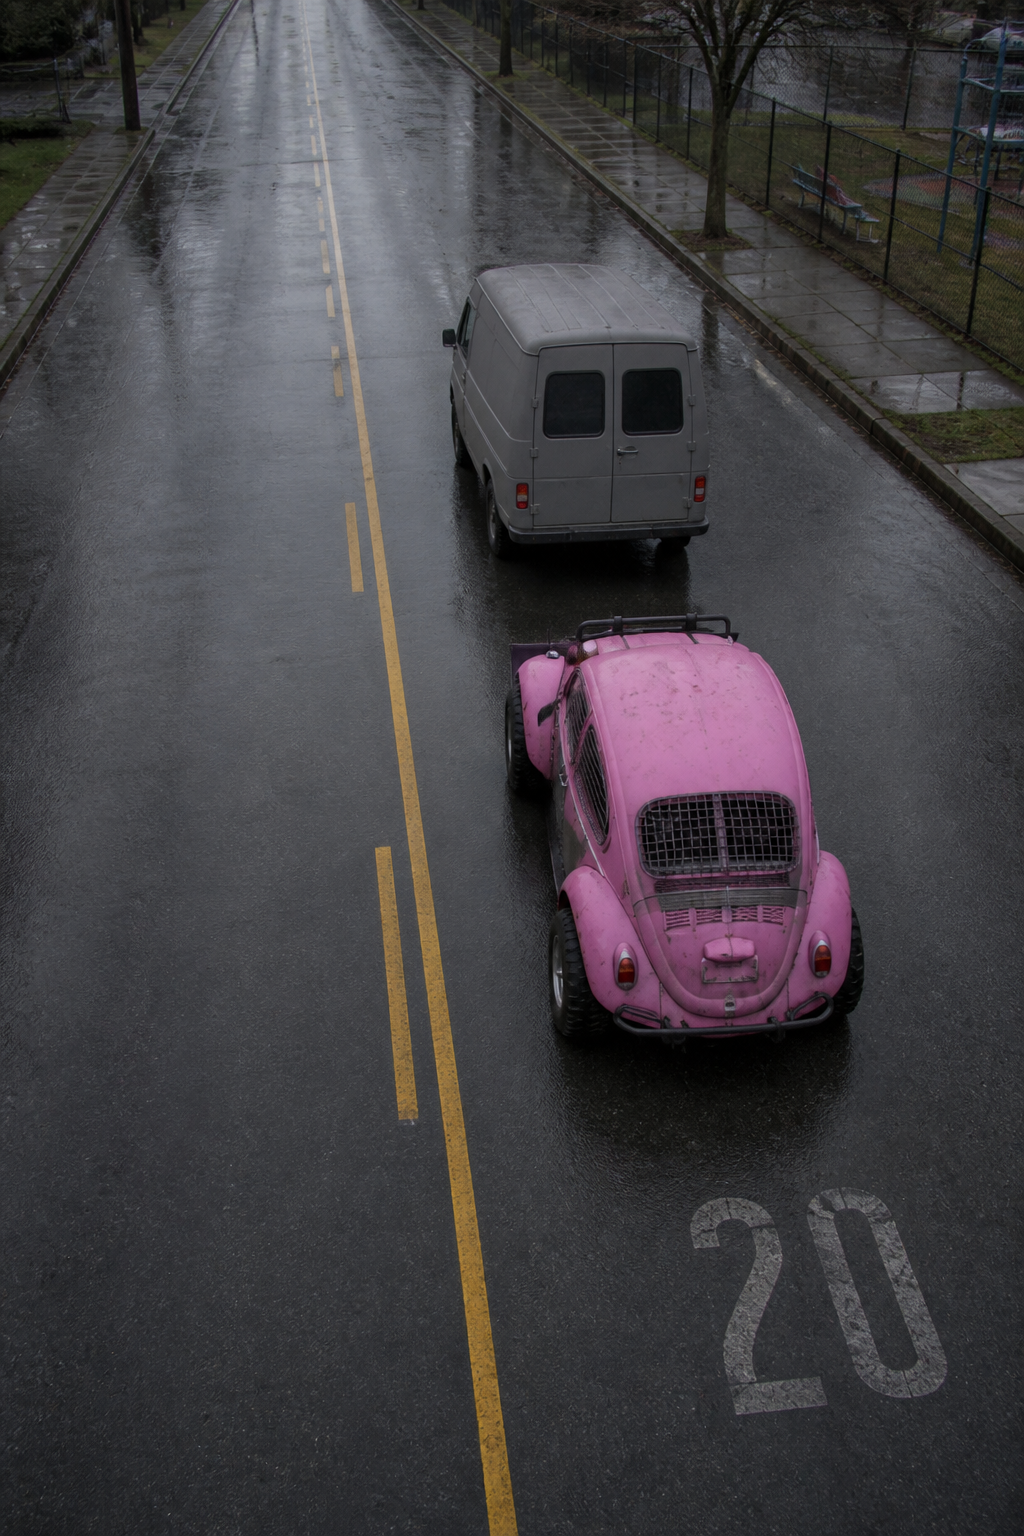
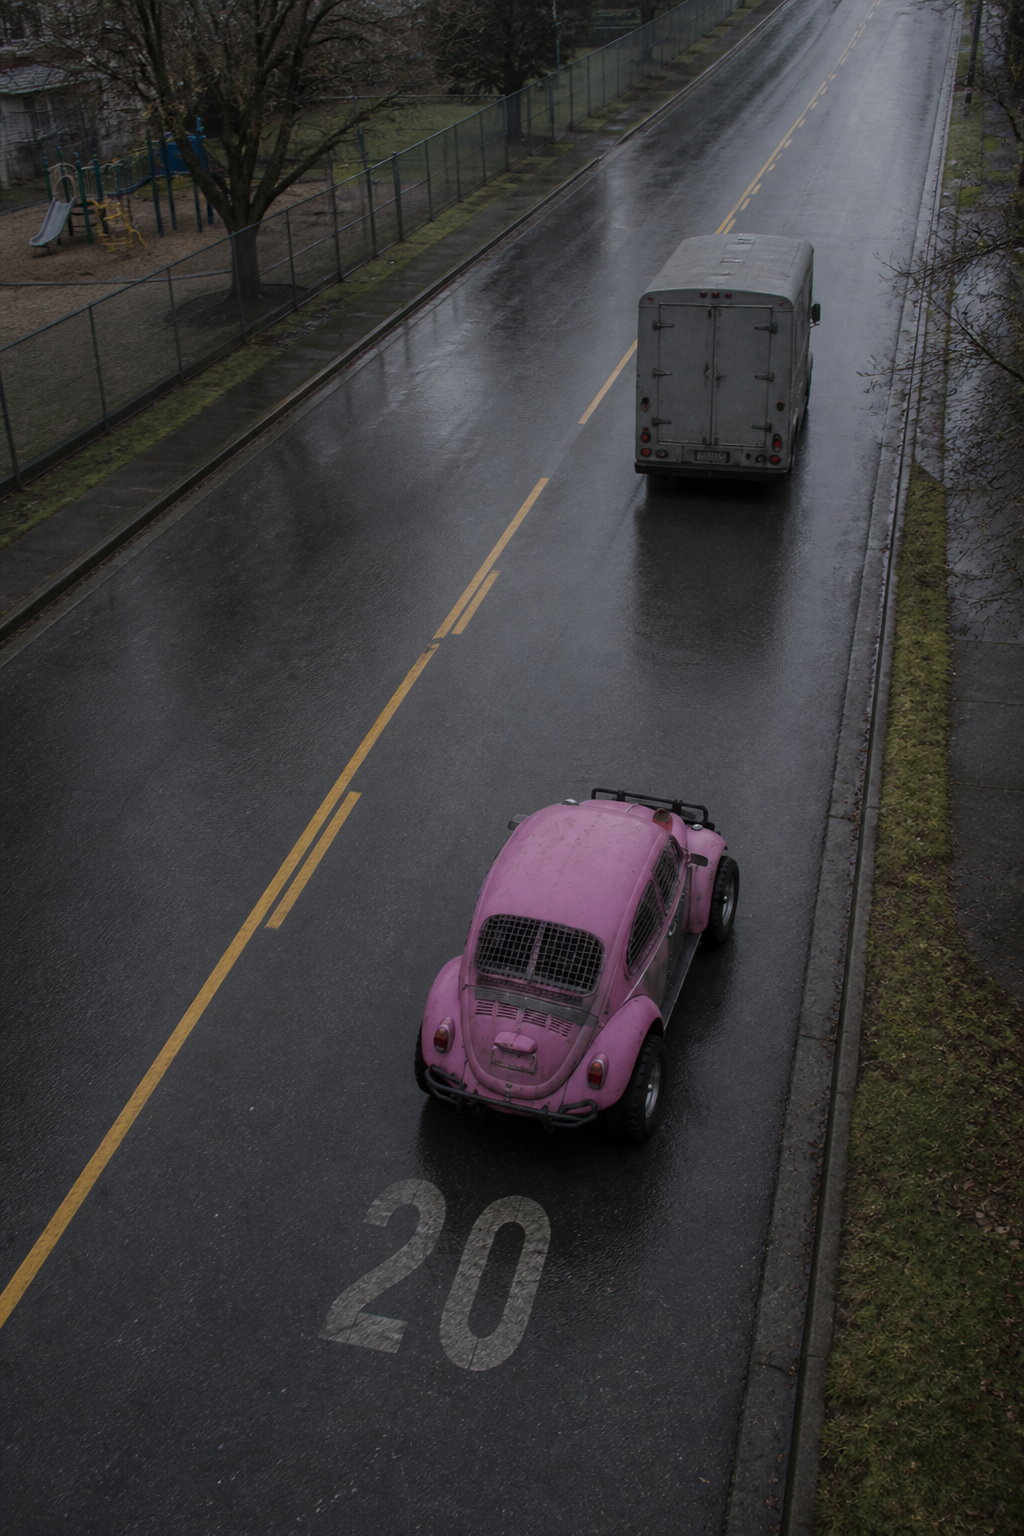
Reshoot II-017 so the no-passing plate matches the rule.
Both vehicles now occupy the right-hand lane, same heading, with an empty oncoming lane left of the yellow — the old frame taught the opposite of the card.

diff --git a/scripts/compile-prompt.js b/scripts/compile-prompt.js
@@ -42,7 +42,7 @@ const NEGATIVE =
   "No golden hour, no sunset, no desert, no salt flat, no cracked dry earth, no warm orange light, no lens flare, no HDR, no glow, no bloom. No gore, no wounds, no blood on skin, no bodies. No infected in sharp focus or close range. No text, no captions, no watermarks, no UI overlay. No crowds. No firearms. No anime, no illustration, no painterly rendering, no 3D render look — this is a photograph. No detached limbs, no arms or hands without a visible attached shoulder and torso, no limb growing out of a vehicle body panel.";
 
 const DIAGRAM_NEGATIVE =
-  "No golden hour, no sunset, no desert, no salt flat, no cracked dry earth, no warm orange light, no lens flare, no HDR, no glow, no bloom. No stick figures, no vector icons, no infographic, no textbook schematic, no flat cartoon cars, no board-game tokens, no UI overlay, no legend, no floating arrows that are not painted on the pavement. No text, no captions, no watermarks. No vehicle facing the wrong way in its lane. The Pink Menace must not face the camera — no headlights or plow toward the viewer. Rear mesh nearer the camera; plow at the far leading end. No gore, no crowds, no firearms. This is a photograph.";
+  "No golden hour, no sunset, no desert, no salt flat, no cracked dry earth, no warm orange light, no lens flare, no HDR, no glow, no bloom. No stick figures, no vector icons, no infographic, no textbook schematic, no flat cartoon cars, no board-game tokens, no UI overlay, no legend, no floating arrows that are not painted on the pavement. No text, no captions, no watermarks. No vehicle facing the wrong way in its lane. No two vehicles in the same lane facing each other. No vehicle occupying the left (oncoming) half of the roadway. The Pink Menace must not face the camera — no headlights or plow toward the viewer. Rear mesh nearer the camera; plow at the far leading end. Same-direction traffic shows rears, never oncoming grilles. No gore, no crowds, no firearms. This is a photograph.";
 
 const LHD_NEGATIVE =
   "No right-hand drive, no steering wheel on the right side of the cabin, no driving on the left side of the road.";

diff --git a/pack/03_IMAGE_COMPILER_PROMPT.md b/pack/03_IMAGE_COMPILER_PROMPT.md
@@ -312,6 +312,8 @@ aesthetically. Lane law cannot survive that.
   lane. Geometry block is mandatory so traffic direction is stated, not
   invented. Attach ref_car_exterior.jpg for build only — never carry its
   golden-hour salt flat. No faces. No infographic. No vector cars.
+  Same-direction vehicles occupy the right half of the roadway and face
+  the same way; never nose-to-nose in one lane, never in the oncoming half.
 
 POV_TOPDOWN is illegal.
 
